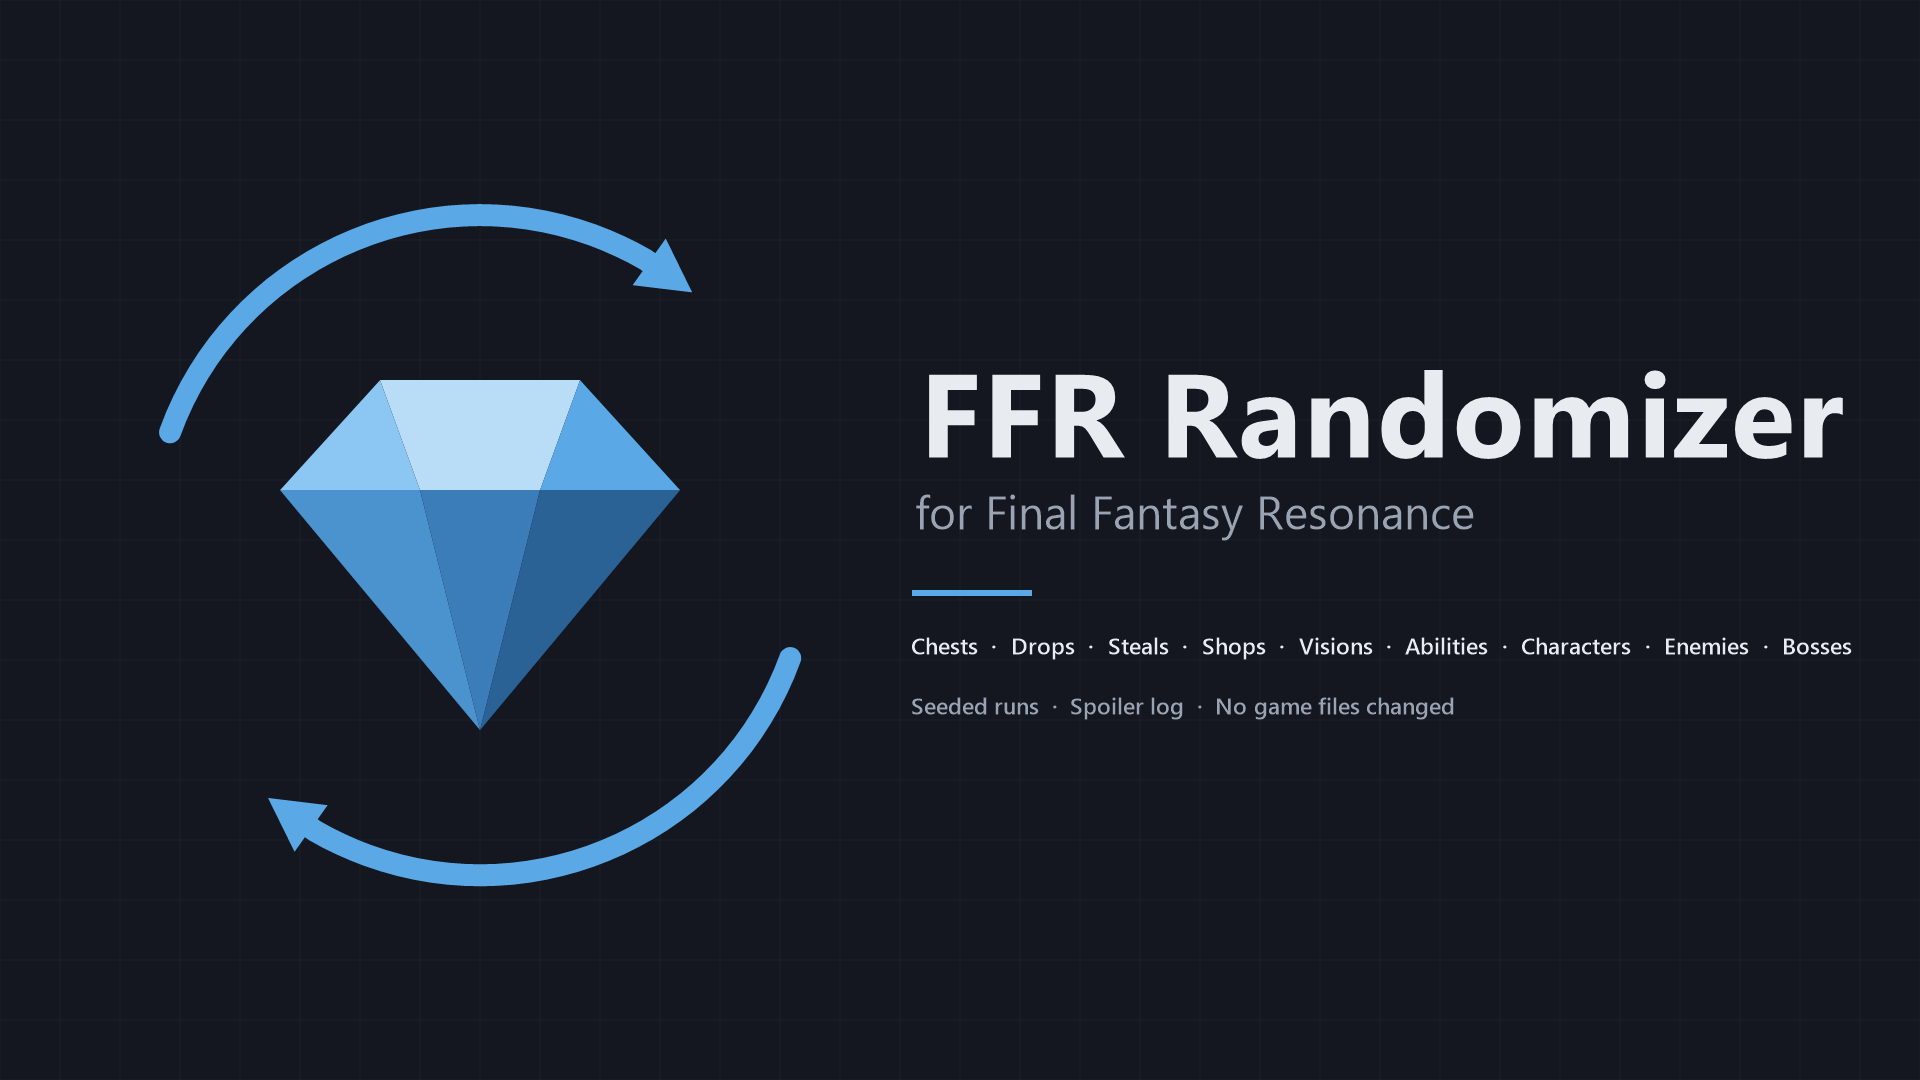
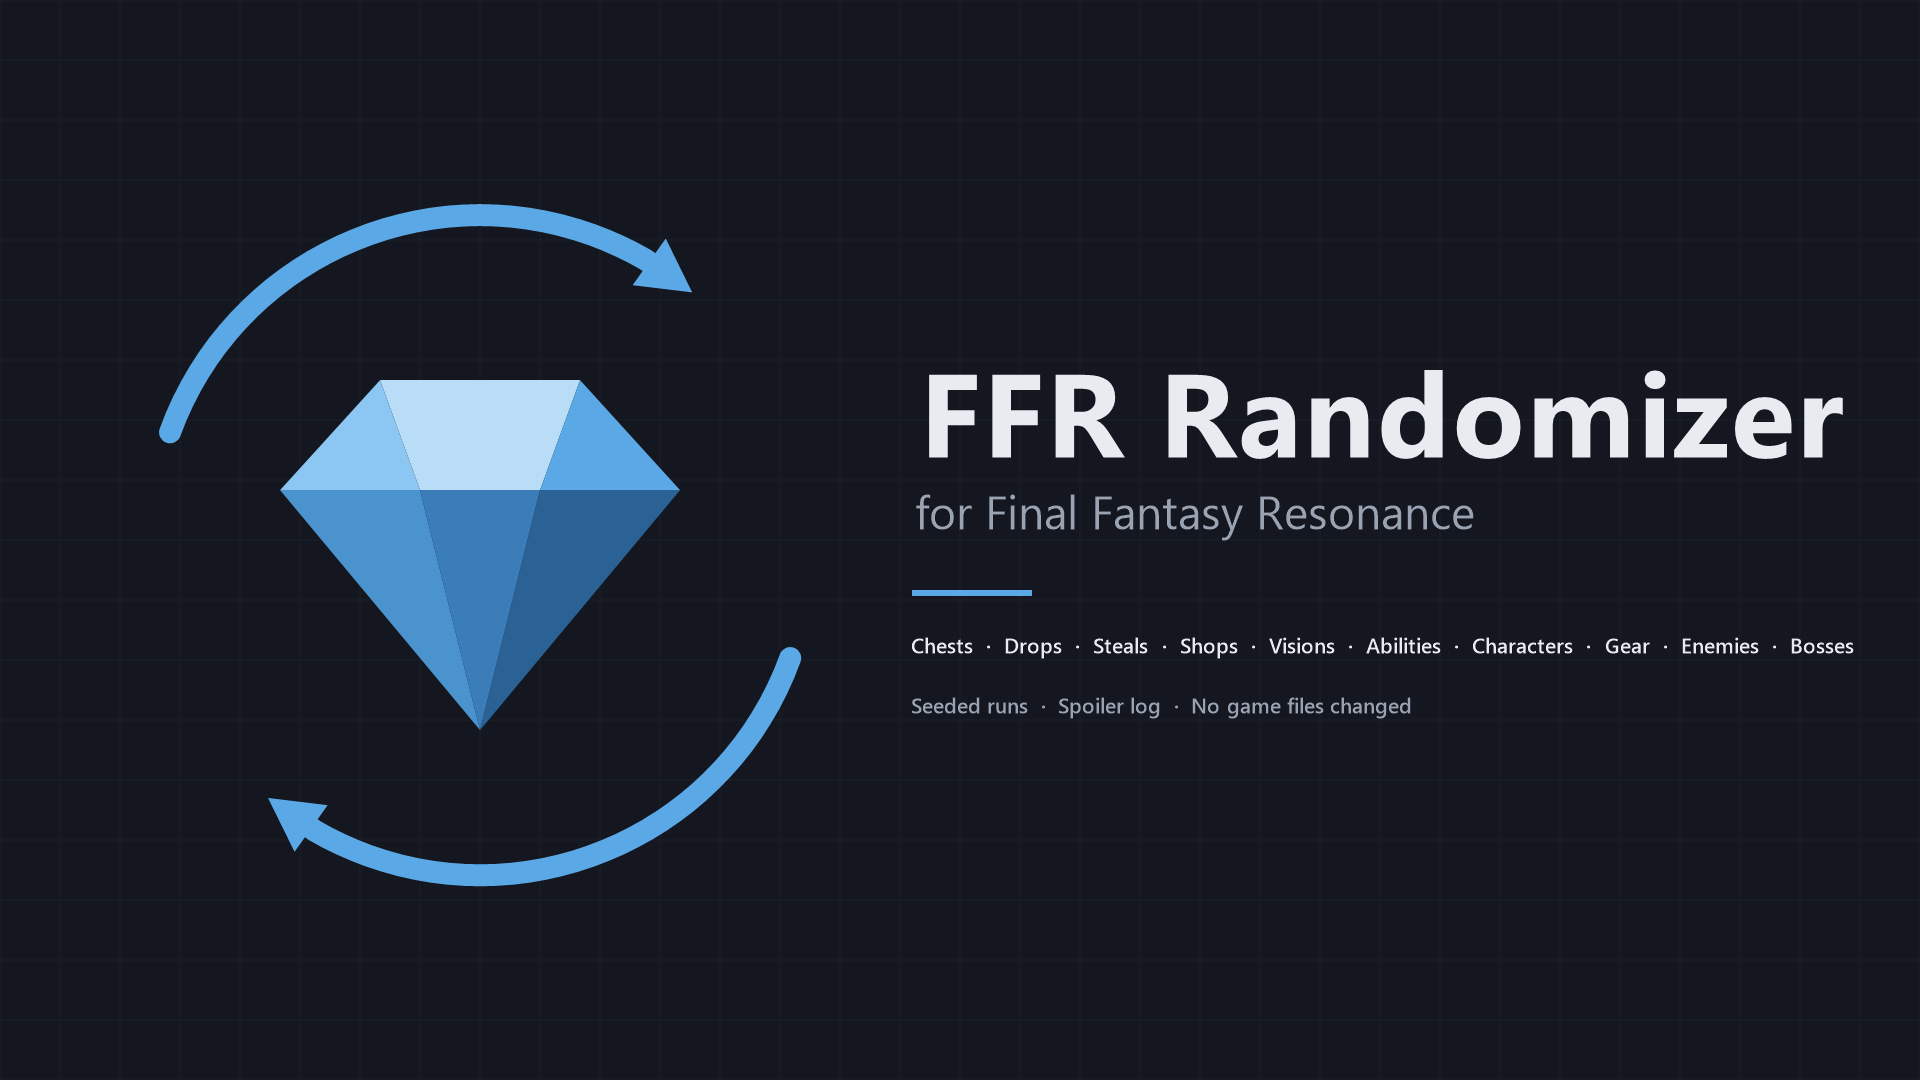
0.6.0: gear, enemy, encounter rate and We are Chaos options

Changed region(s): [[0.4688, 0.5806, 0.9688, 0.6111], [0.4688, 0.6417, 0.75, 0.6722]]

diff --git a/README.md b/README.md
@@ -2,7 +2,7 @@
 
 # FFR Randomizer
 
-A seeded randomizer for **Final Fantasy Resonance** on PC. It shuffles chests, enemy drops, steals, shop stock, all 26 Visions and their abilities, the characters' moves, finishers and stats, the enemies in random encounters and the bosses. Share a seed and a friend gets the same run.
+A seeded randomizer for **Final Fantasy Resonance** on PC. It shuffles chests, enemy drops, steals, shop stock, all 26 Visions and their abilities, the characters' moves, finishers and stats, gear stats and passives, enemy weaknesses and passives, the enemies in random encounters and the bosses. Share a seed and a friend gets the same run.
 
 It's a UE4SS Lua mod that changes the game's tables in memory while the game runs. No game files are changed, and removing the mod undoes it.
 
@@ -15,6 +15,8 @@ It's a UE4SS Lua mod that changes the game's tables in memory while the game run
 - **Visions:** all 26 Visions swap among their rewards, including Sanctum, subquest and story Visions.
 - **Vision abilities (off by default):** each Vision's abilities and passives swap with other Visions', keeping its counts, with no duplicates and no stacked copies of one stat bonus. Options: mix Physical and Magic Visions, keep Fina, Leah, Ayaka and Y'shtola as healers, and shuffle the 26 finishers.
 - **Characters (off by default):** level-up moves and finishers swap among characters of the same attack type (or across types), keeping counts and levels; each character's five main stats can trade growth curves, keeping totals.
+- **Gear and enemies (off by default):** gear stats and passives, enemy weaknesses, status resistances and passives, and the encounter rate.
+- **We are Chaos (off by default):** fully random stats, swapped weapon and armor types, enemies at full strength, shops that sell anything, and story items in the shuffle. These can make a run unwinnable.
 - **Enemies (experimental, off by default):** random encounter enemies swap one-for-one with enemies of the same size, taking the level, HP, stats, EXP, Gil, drops and steals of the one they replace.
 - **Bosses (experimental, off by default):** boss fights swap bosses. The new boss keeps its own abilities and takes the replaced boss's stats and rewards. Lose-on-purpose and multi-phase fights stay put.
 - **Spoiler log:** a text file listing where everything went.
@@ -28,12 +30,12 @@ It's a UE4SS Lua mod that changes the game's tables in memory while the game run
 Keep the same Randomizer File for the whole playthrough. Uninstall from Windows Settings > Apps > Installed apps.
 
 ### Manual install
-Copy `mod/FFRRandomizer` into `FINAL FANTASY RESONANCE\FFRS\Binaries\Win64\ue4ss\Mods\`. Without the app, the mod picks a seed on first launch and writes it to `Randomizer.txt` in that folder; edit that file to change the seed or options (`items`, `shops`, `visions`, `enemies`, `bosses`, `abilities`, `mix_physical_magic`, `finishers`, `supports`, `character_moves`, `character_finishers`, `mix_character_moves`, `character_stats`: `on` or `off`; `chest_quantity`: `default`, `9` or `50`).
+Copy `mod/FFRRandomizer` into `FINAL FANTASY RESONANCE\FFRS\Binaries\Win64\ue4ss\Mods\`. Without the app, the mod picks a seed on first launch and writes it to `Randomizer.txt` in that folder; edit that file to change the seed or options (`items`, `shops`, `visions`, `enemies`, `bosses`, `abilities`, `mix_physical_magic`, `finishers`, `supports`, `character_moves`, `character_finishers`, `mix_character_moves`, `character_stats`, `gear_stats`, `gear_passives`, `enemy_weaknesses`, `status_resistances`, `enemy_passives`, `random_stats`, `swap_gear_types`, `full_strength`, `shops_sell_anything`, `story_items`: `on` or `off`; `encounter_rate`: `normal`, `half` or `double`; `chest_quantity`: `default`, `9` or `50`).
 
 ## Repository
 | Folder | What's in it |
 |---|---|
-| `mod/FFRRandomizer` | The UE4SS mod. `Scripts/main.lua` builds and applies the seeded plan; `ItemNames.lua`, `EncounterGroups.lua`, `VisionAbilities.lua` and `CharacterMoves.lua` are generated lookups. |
+| `mod/FFRRandomizer` | The UE4SS mod. `Scripts/main.lua` builds and applies the seeded plan; `ItemNames.lua`, `EncounterGroups.lua`, `VisionAbilities.lua`, `CharacterMoves.lua` and `ChaosData.lua` are generated lookups. |
 | `gui` | The app (WinForms, C# 5). `build.cmd` compiles it with the compiler that ships with .NET Framework 4.8, so nothing needs installing. |
 | `installer` | `FFRRandomizer-Setup.exe`, also built with the .NET Framework compiler. |
 | `tools` | `make_release.ps1` builds a release zip; `make_art.ps1` draws the icon and banners; the Python scripts regenerate the Lua lookups from a data table export (not included). |
@@ -41,7 +43,7 @@ Copy `mod/FFRRandomizer` into `FINAL FANTASY RESONANCE\FFRS\Binaries\Win64\ue4ss
 
 Build a release:
 ```
-powershell -ExecutionPolicy Bypass -File tools/make_release.ps1 -Version 0.5.0
+powershell -ExecutionPolicy Bypass -File tools/make_release.ps1 -Version 0.6.0
 ```
 
 ## License
